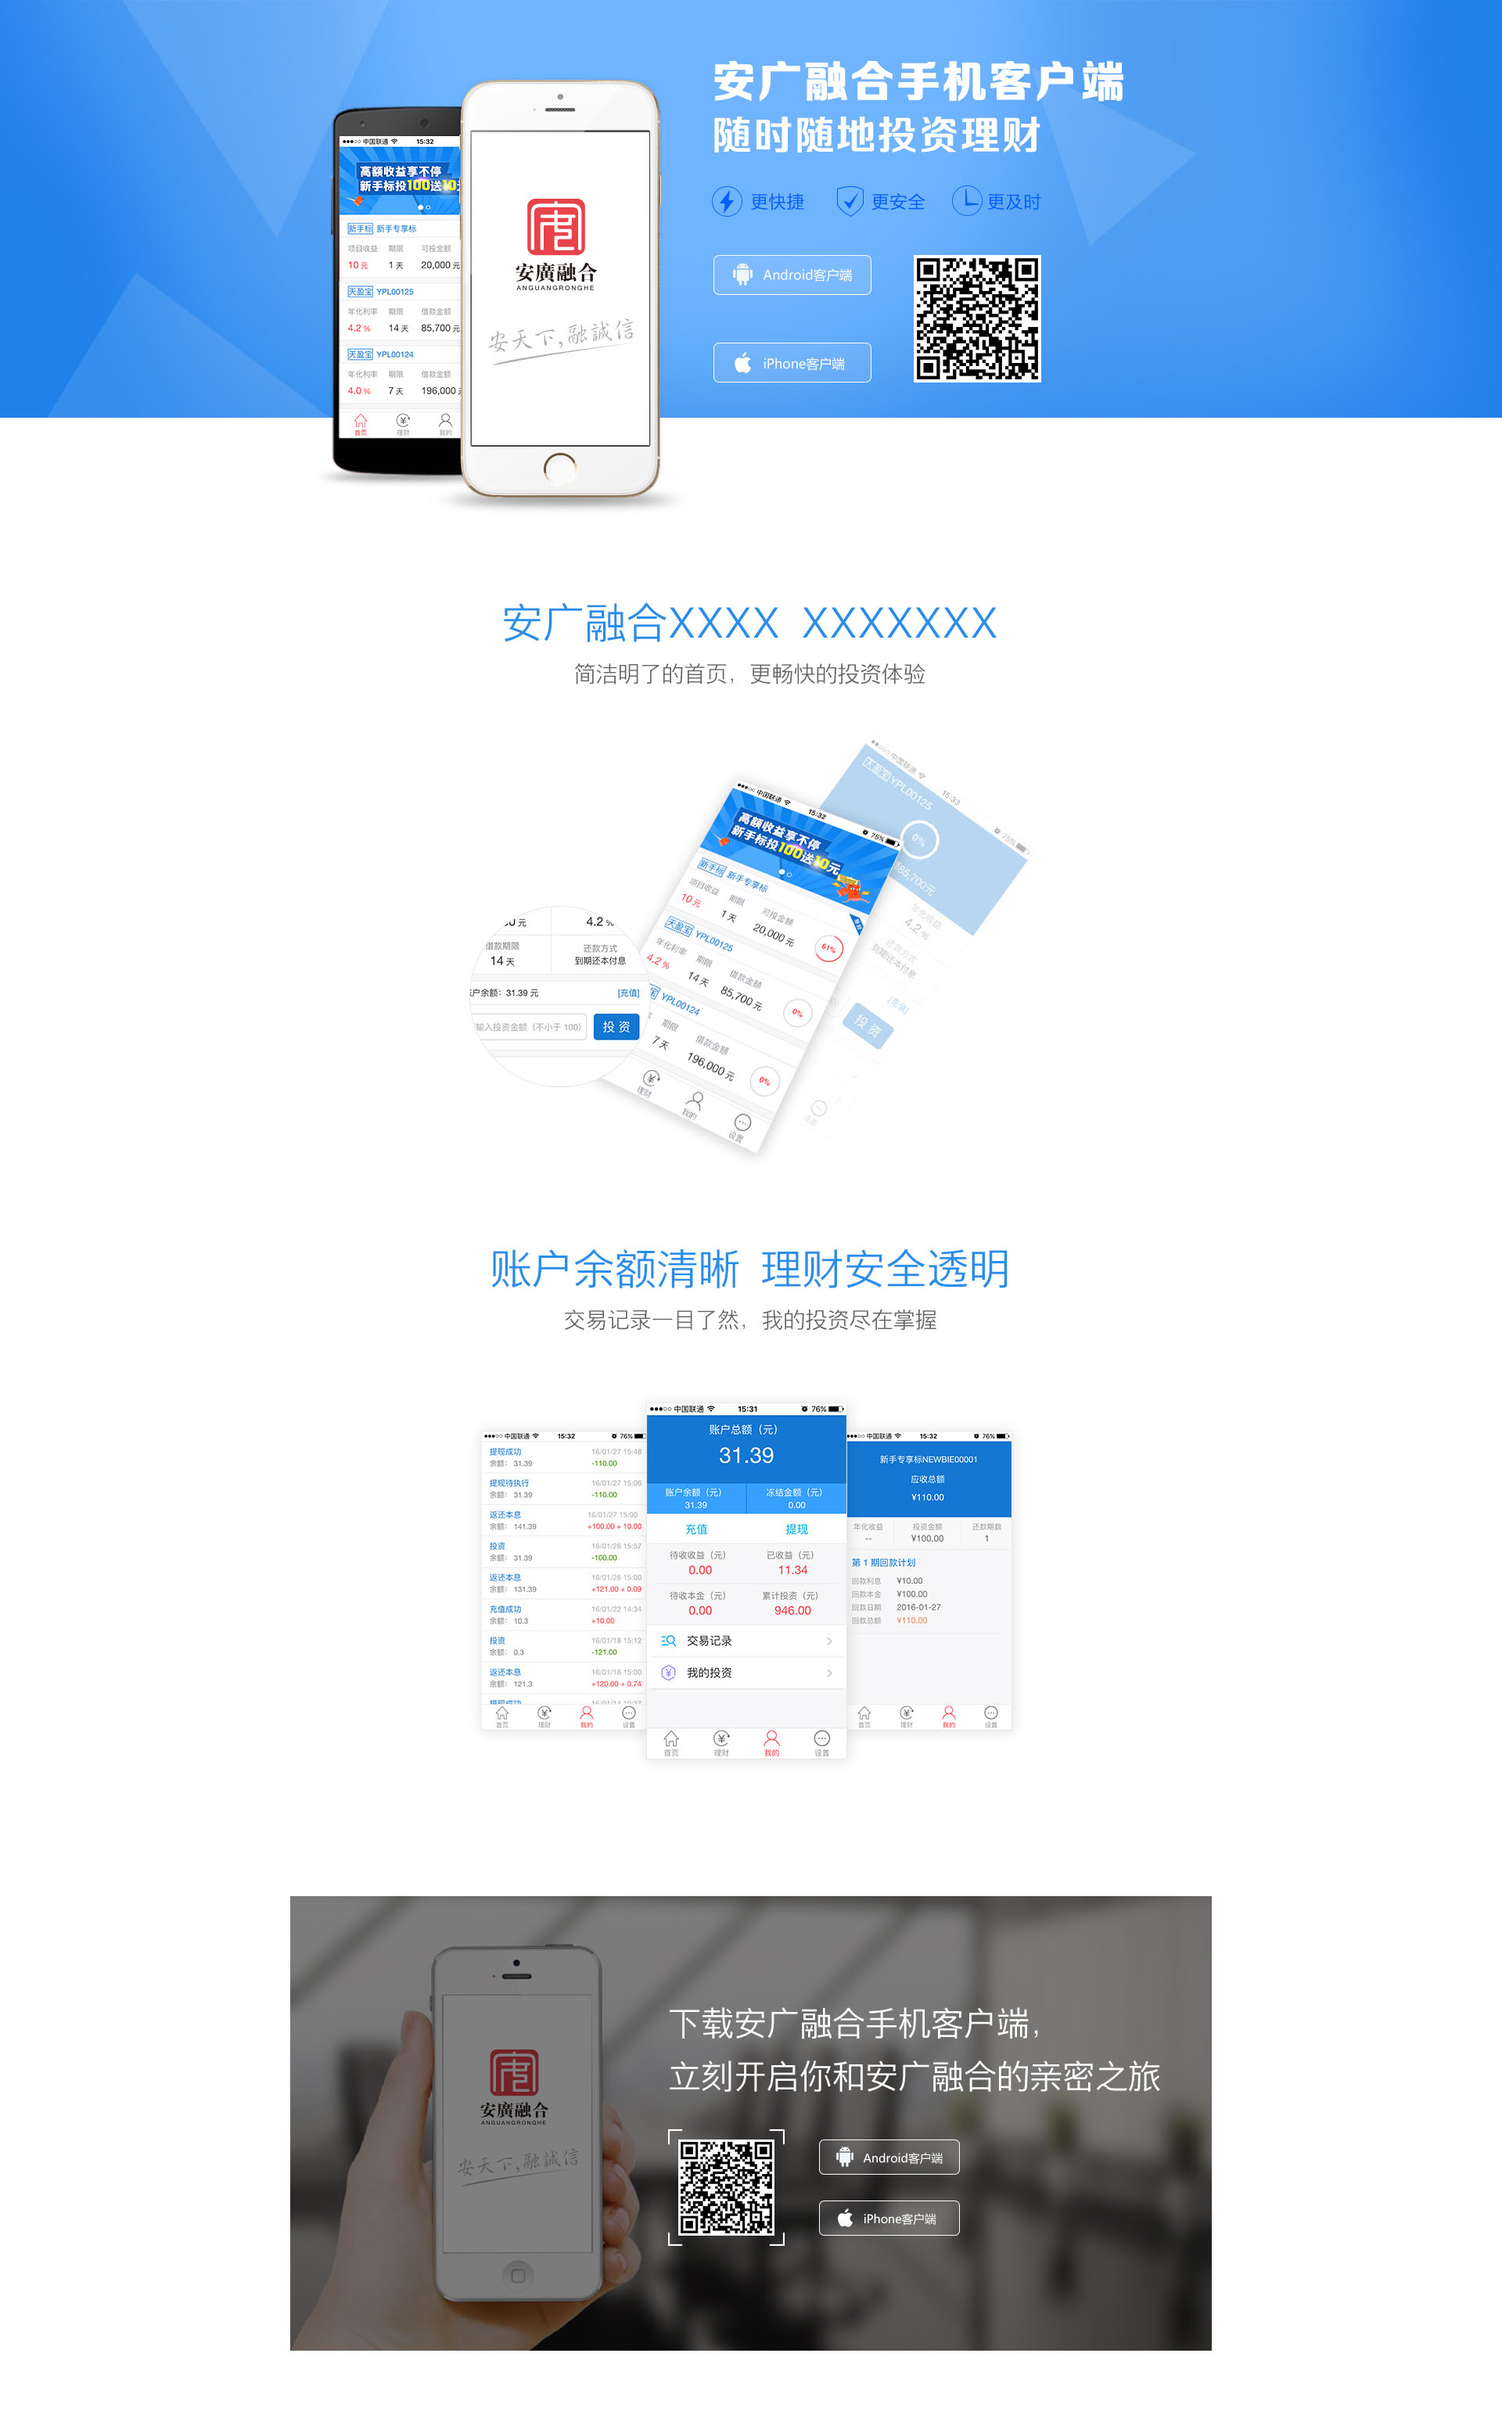
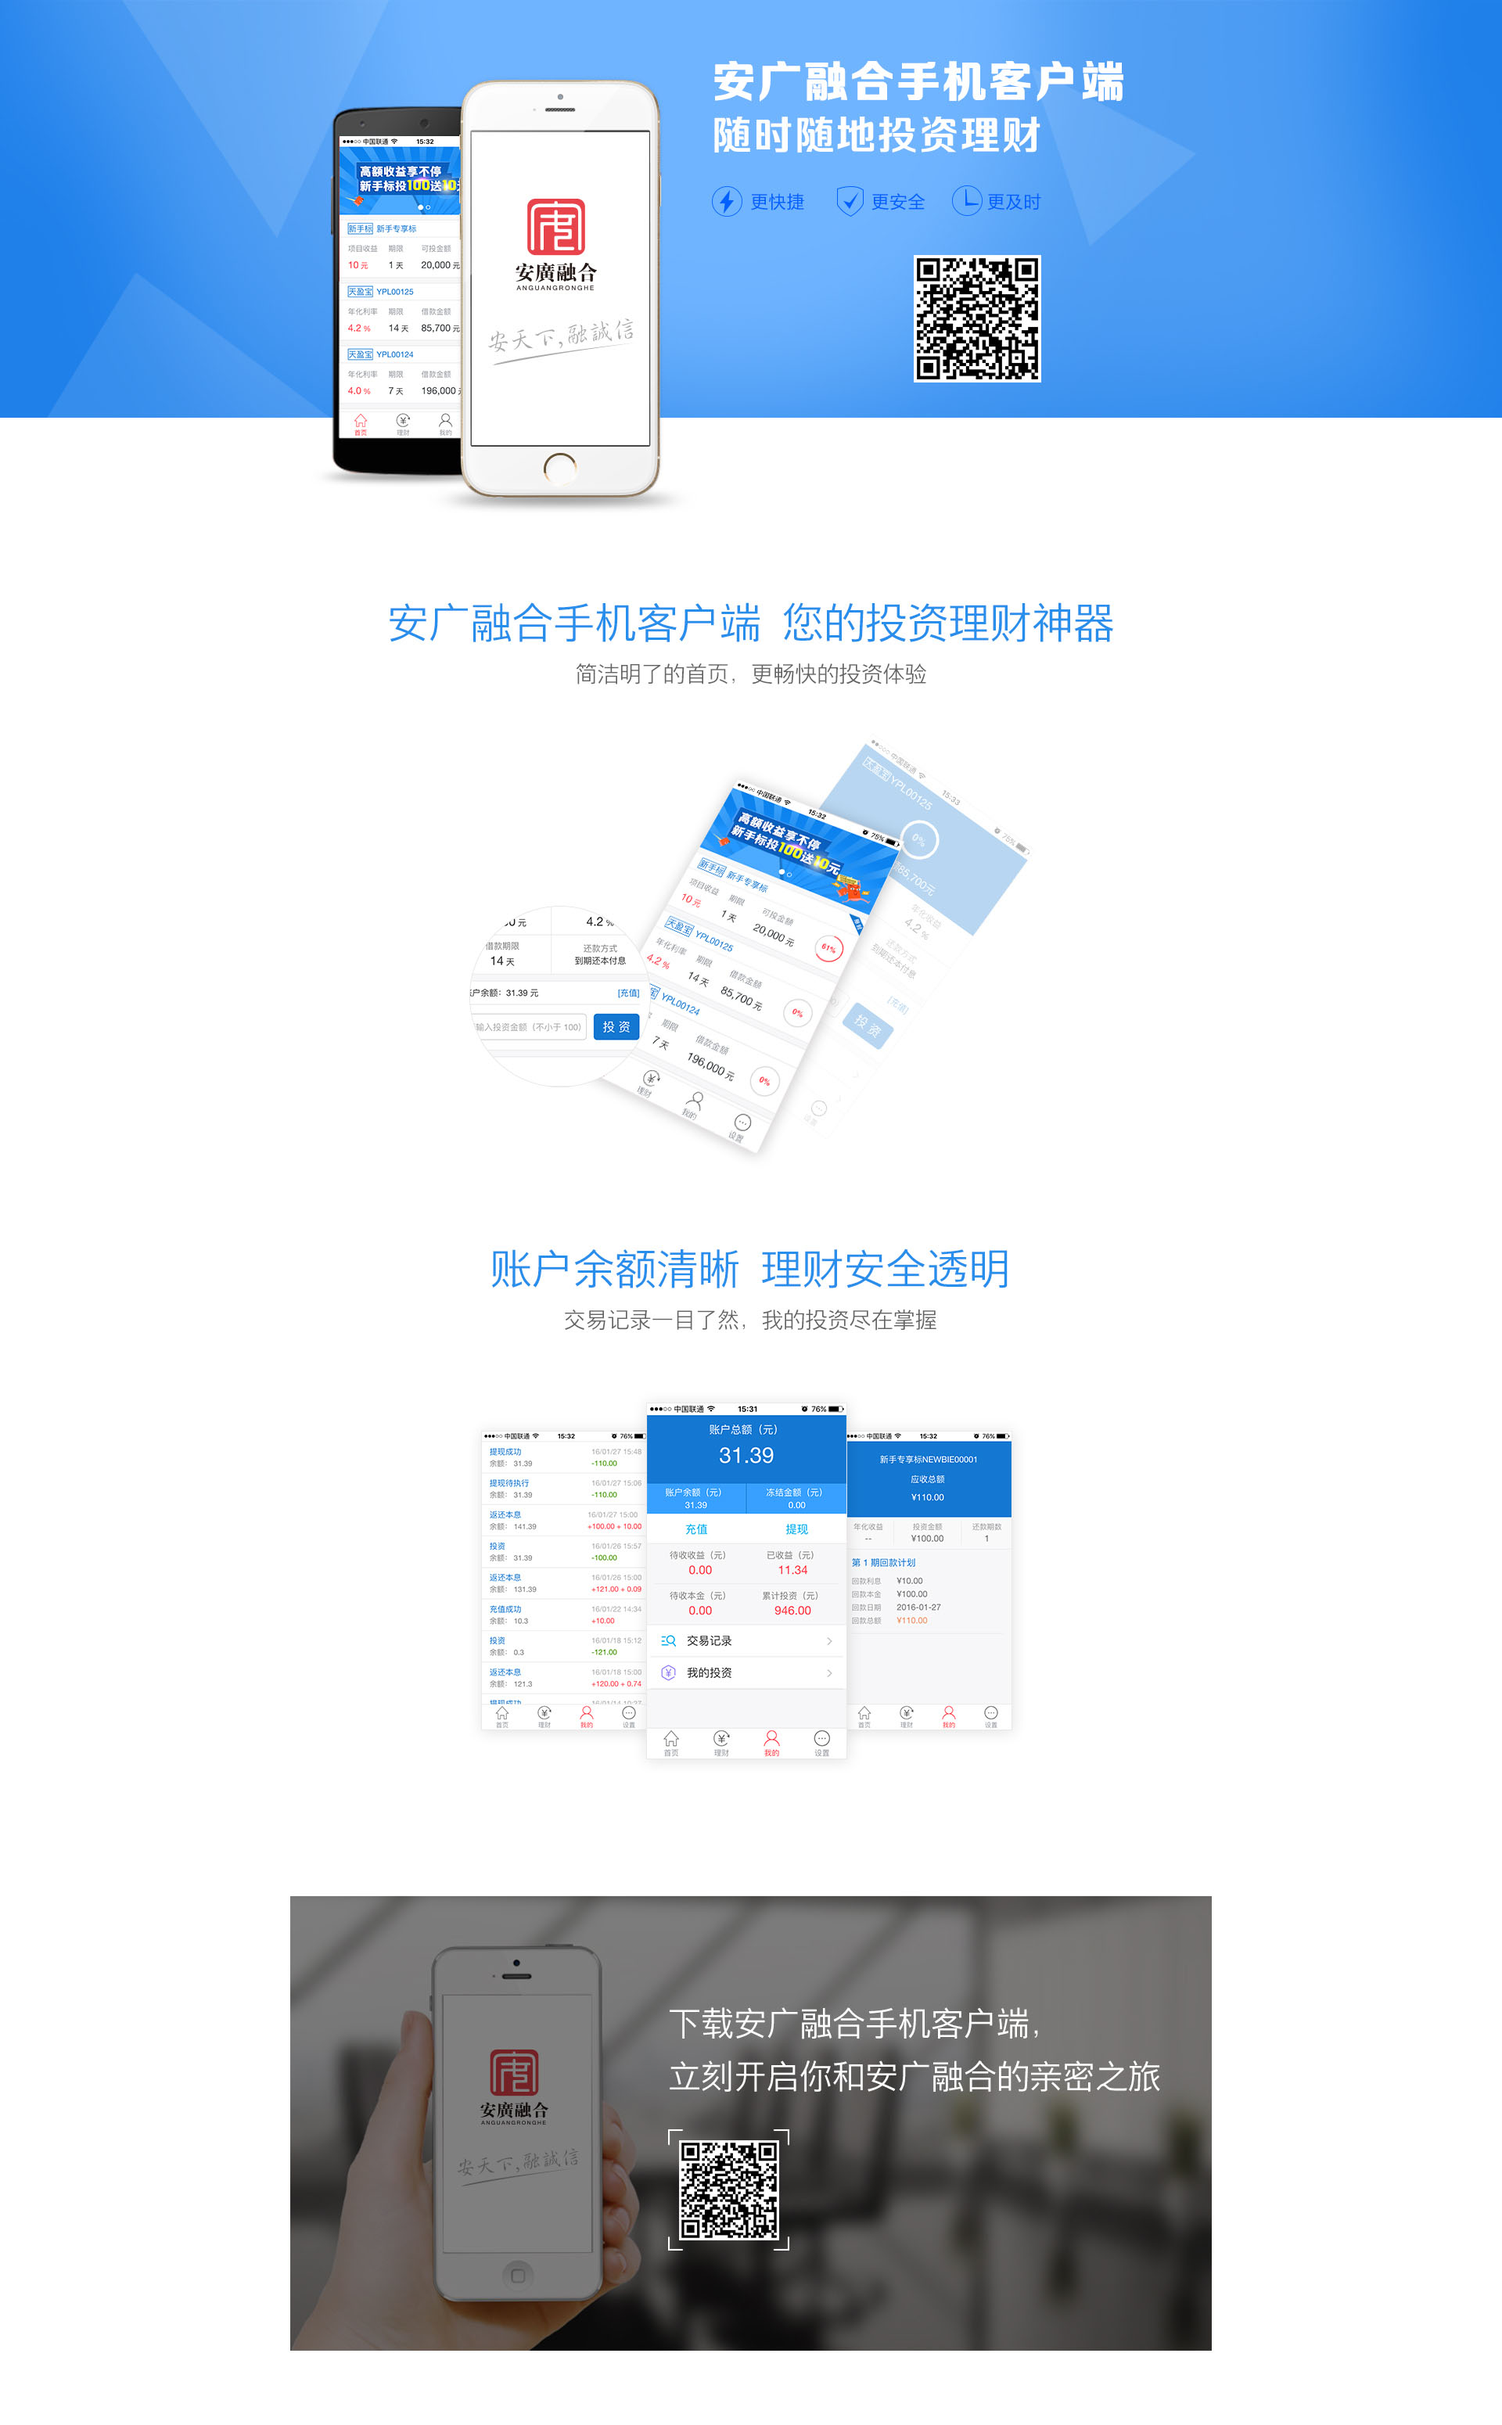
网站手机客户端banner更换、增加app按钮以及活动页面修改

diff --git a/Agp2p.Web/templates/AnGuang/less/index.less b/Agp2p.Web/templates/AnGuang/less/index.less
@@ -101,6 +101,27 @@ div#bannerCarousel {
             }
             .banner2 { background: url("@{images}/banner-02.jpg") no-repeat center; }
             .banner3 { background: url("@{images}/banner-03.jpg") no-repeat center; }
+            .apps-btns {
+                position: absolute;
+                width: 155px;
+                left: 50%;
+                margin-left: -245px;
+                margin-top: -126px;
+                a {
+                    display: block;
+                    width: 100%;
+                    height: 40px;
+                }
+                .android-btn {
+                    background: url("@{images}/android-btn.png");
+                    &:hover,&:visited { background: url("@{images}/android-btn-hover.png") no-repeat; }
+                }
+                .ios-btn {
+                    margin-top: 20px;
+                    background: url("@{images}/ios-btn.png");
+                    &:hover, &:visited { background: url("@{images}/ios-btn-hover.png") no-repeat; }
+                }
+            }
         }
     }
 }

diff --git a/Agp2p.Web/templates/AnGuang/index.html b/Agp2p.Web/templates/AnGuang/index.html
@@ -61,6 +61,10 @@
                 </div>
                 <div class="item">
                     <a href='<%linkurl("activity_apps")%>' target="_blank" class="banner3"></a>
+                    <div class="apps-btns">
+                        <a href="#" class="android-btn" target="_blank"></a>
+                        <a href="https://itunes.apple.com/cn/app/guang-rong-he-p2p-wang-dai/id1080838161?mt=8" class="ios-btn" target="_blank"></a>
+                    </div>
                 </div>
             </div>
         </div>
